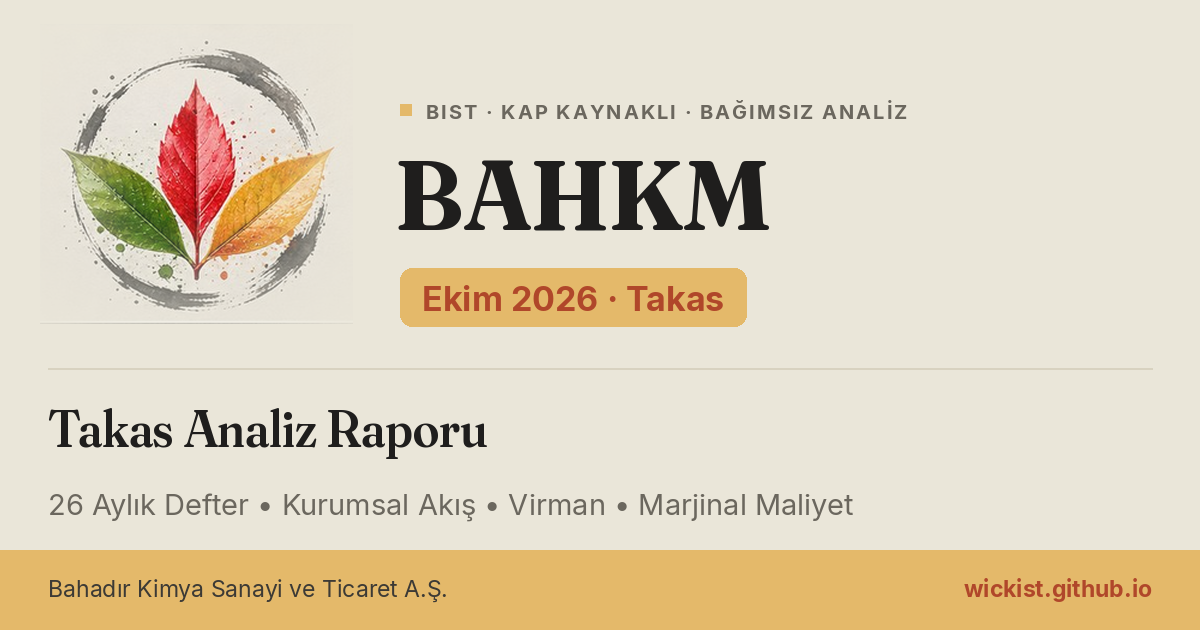
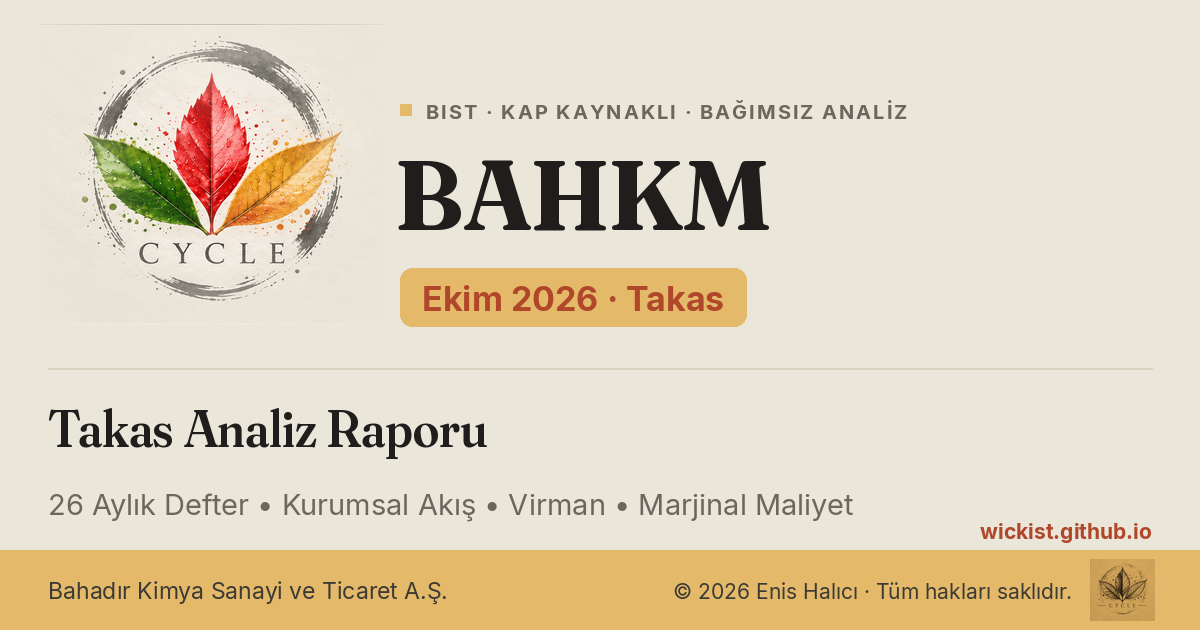
feat(portal): CYCLE logosu + monokrom muhur (multiply) + telif satiri kapakta

Changed region(s): [[0.0308, 0.0603, 0.3083, 0.5127], [0.555, 0.8143, 0.9867, 0.9952], [0.0308, 0.9048, 0.37, 0.9651]]

diff --git a/tools/make_og.py b/tools/make_og.py
@@ -16,7 +16,7 @@ import argparse
 import json
 from pathlib import Path
 
-from PIL import Image, ImageDraw, ImageFilter, ImageFont
+from PIL import Image, ImageChops, ImageDraw, ImageFilter, ImageFont
 
 ROOT = Path(__file__).resolve().parent.parent
 W, H = 1200, 630
@@ -29,8 +29,10 @@ AMBER = (228, 185, 106)    # #E4B96A — rapor amber vurgusu
 RULE = (216, 210, 192)     # hairline
 BAND = (228, 185, 106)     # #E4B96A — alt bant: dönem rozetiyle aynı amber
 FDIR = ROOT / "assets" / "fonts"
-LOGO = ROOT / "assets" / "images" / "logo.png"   # yaprak + ensō — her kapakta zorunlu
+LOGO = ROOT / "assets" / "images" / "logo.png"   # CYCLE yaprak logosu — her kapakta zorunlu
+SEAL = ROOT / "assets" / "images" / "seal.png"   # monokrom CYCLE mührü — telif yanında
 EYEBROW = "BIST · KAP KAYNAKLI · BAĞIMSIZ ANALİZ"
+COPYRIGHT = "© 2026 Enis Halıcı · Tüm hakları saklıdır."
 
 
 def frac(size: int, wght: int = 700, opsz: int = 144) -> ImageFont.FreeTypeFont:
@@ -56,13 +58,26 @@ def paste_logo_soft(img: Image.Image, x: int = 40, y: int = 24, h: int = 300) ->
     """Logoyu sol üste çerçevesiz basar; kenarları gauss ile eritip kâğıt zeminde kaybeder."""
     if not LOGO.exists():
         return
-    w = int(round(h * 261 / 250))
+    iw, ih = Image.open(LOGO).size
+    w = int(round(h * iw / ih))
     logo = Image.open(LOGO).convert("RGBA").resize((w, h), Image.LANCZOS)
     pad = int(h * 0.12)
     mask = Image.new("L", (w, h), 0)
     ImageDraw.Draw(mask).rectangle((pad, pad, w - pad, h - pad), fill=255)
     mask = mask.filter(ImageFilter.GaussianBlur(int(h * 0.15)))
     img.paste(logo, (x, y), mask)
+
+
+def paste_seal(img: Image.Image, x: int, y: int, h: int = 62) -> None:
+    """Mührü alt bandın rengine çarparak (multiply) basar: kâğıt tonu bandın amberine
+    döner, mürekkep çizgileri kalır — bantın üstüne basılmış gerçek mühür görünümü."""
+    if not SEAL.exists():
+        return
+    iw, ih = Image.open(SEAL).size
+    w = int(round(h * iw / ih))
+    seal = Image.open(SEAL).convert("RGB").resize((w, h), Image.LANCZOS)
+    patch = img.crop((x, y, x + w, y + h))
+    img.paste(ImageChops.multiply(patch, seal), (x, y))
 
 
 def draw_cover(path: Path, ticker: str, period_label: str, subtitle: str,
@@ -89,11 +104,17 @@ def draw_cover(path: Path, ticker: str, period_label: str, subtitle: str,
     # başlık + satır
     d.text((48, 396), subtitle, font=frac(52, 600, 96), fill=INK)
     d.text((48, 486), sections, font=inter(29), fill=MUTED)
-    # alt bant — yaprak rengi şerit içinde
-    d.text((48, H - 56), company, font=inter(23), fill=SOFT)
+    # üst bant çizgisi üstü: site URL'i sağa yaslı
     url = "wickist.github.io"
-    d.text((W - 48 - d.textlength(url, font=inter(23, True)), H - 56),
-           url, font=inter(23, True), fill=CLAY)
+    d.text((W - 48 - d.textlength(url, font=inter(21, True)), H - 112),
+           url, font=inter(21, True), fill=CLAY)
+    # alt bant: solda şirket, sağda telif + mühür (mühür bandın amberine multiply ile biner)
+    d.text((48, H - 54), company, font=inter(23), fill=SOFT)
+    f_cr = inter(21)
+    sx = W - 48 - 62
+    d.text((sx - 18 - d.textlength(COPYRIGHT, font=f_cr), H - 52), COPYRIGHT,
+           font=f_cr, fill=SOFT)
+    paste_seal(img, sx, H - 71)
     img.save(path, "PNG", optimize=True)
 
 
